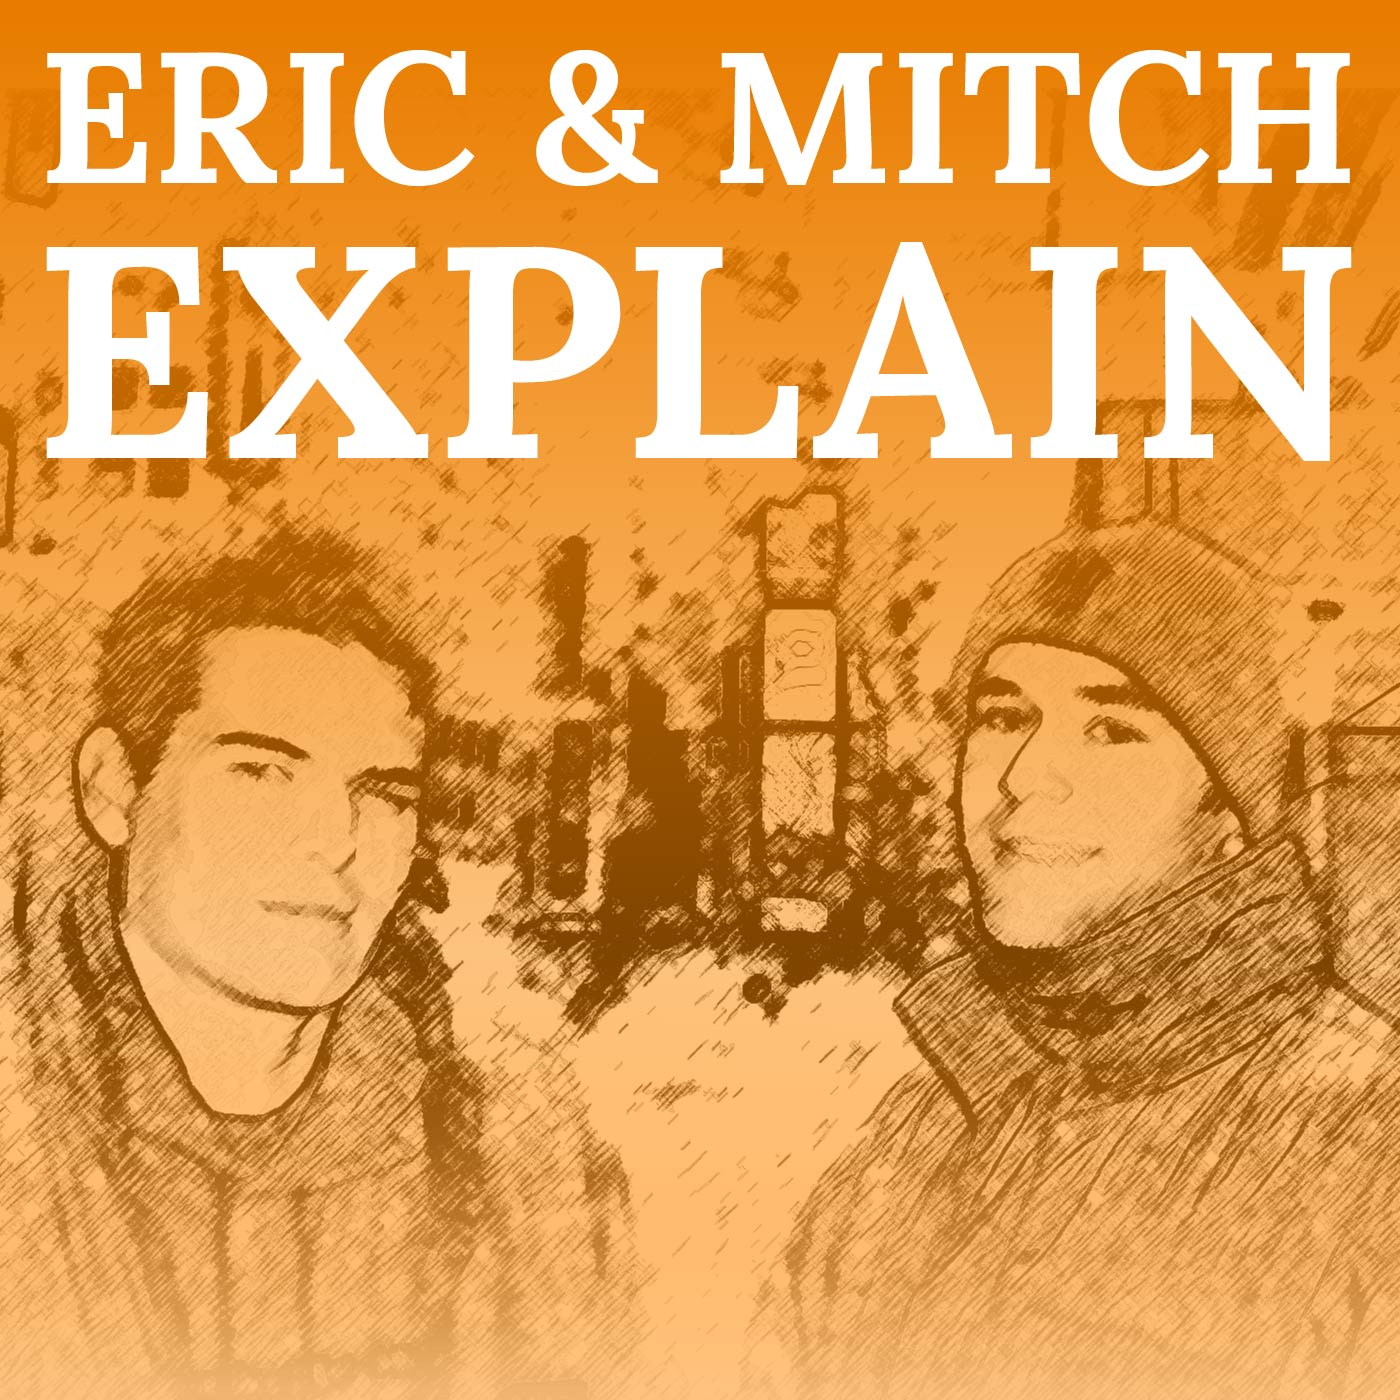
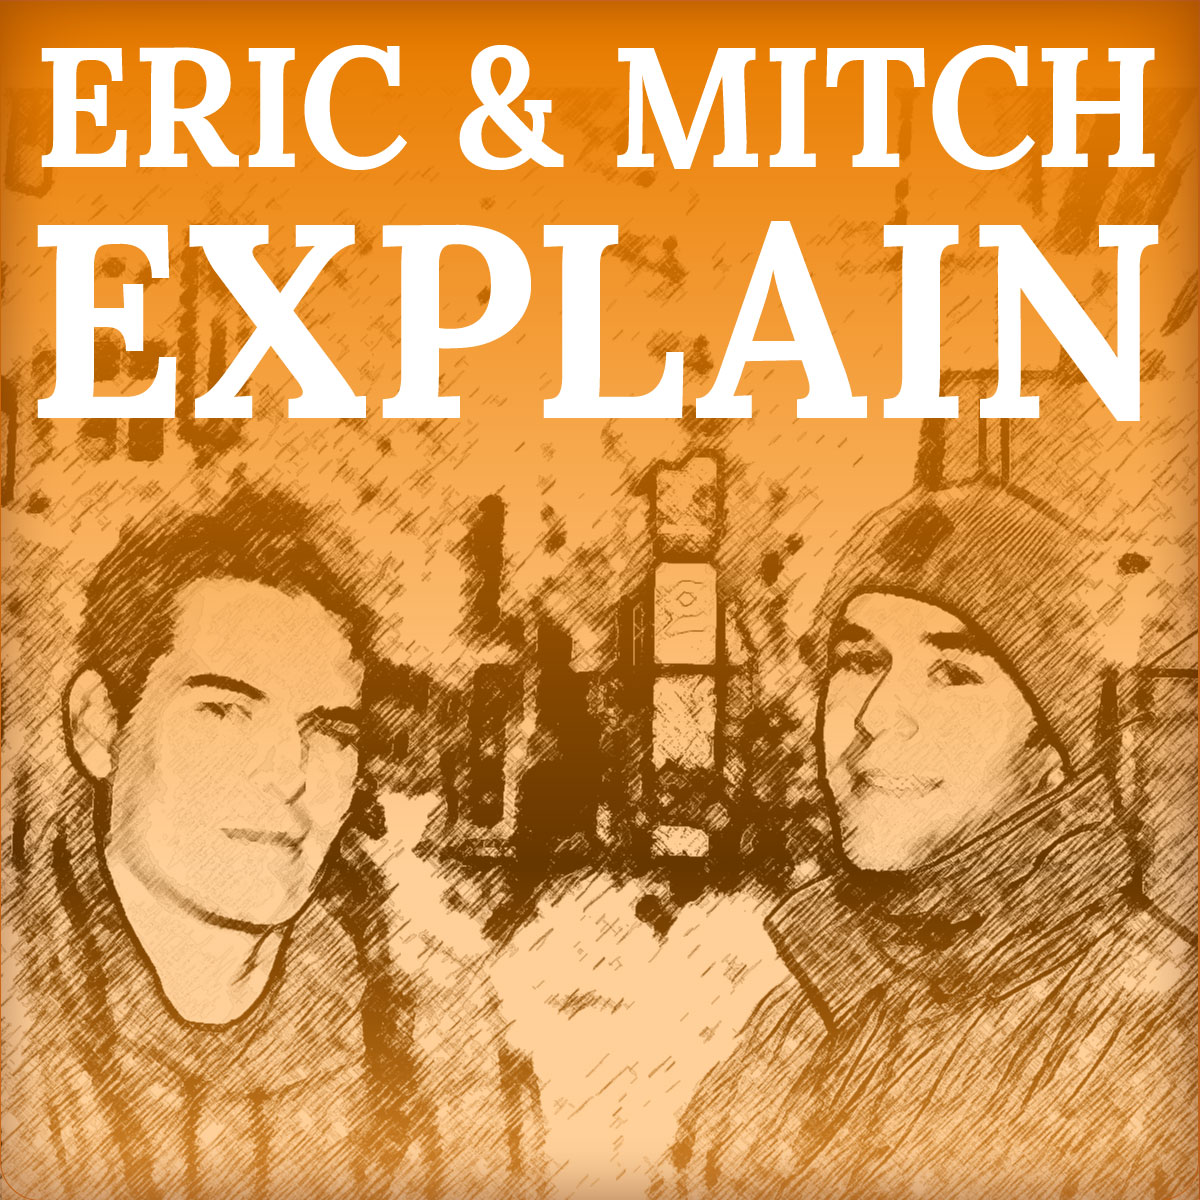
Published gh-pages to GitHub pages.

diff --git a/index.html b/index.html
@@ -1,1 +1,1 @@
-<!DOCTYPE html><html><head><title>Eric and Mitch Explain</title><link href="http://fonts.googleapis.com/css?family=Lora:400,700" rel="stylesheet" type="text/css" /><link href="stylesheets/site.css" media="screen, projection" rel="stylesheet" /><link href="javascripts/vendor/jplayer/blue.monday/jplayer.blue.monday.css" rel="stylesheet" type="text/css" /><link href="http://feeds.feedburner.com/ericandmitchexplain" rel="alternate" title="RSS" type="application/rss+xml" /><script src="https://ajax.googleapis.com/ajax/libs/jquery/1.7.2/jquery.min.js" type="text/javascript"></script><script src="javascripts/vendor/jplayer/jquery.jplayer.min.js" type="text/javascript"></script><script src="javascripts/application.js" type="text/javascript"></script></head><body><section id="header"><table><tr><td class="line-spacer"><hr /></td><td class="title"><h1>ERIC & MITCH EXPLAIN</h1></td><td class="line-spacer"><hr /></td></tr></table><div class="subtitle">The world is full of unexplained wonders. But not for long.<br />Join Eric and Mitch on a eye-opening journey into the depths of whatever.</div><div class="subscribe"><a class="itunes" href="http://itunes.apple.com/us/podcast/eric-and-mitch-explain/id533649535">Subcribe on iTunes</a><a class="rss" href="http://feeds.feedburner.com/ericandmitchexplain">Subscribe with RSS</a></div></section><section id="posts"><div class="latest-episode" style="background-image: url(images/001.jpeg)"><div class="content"><div class="title">Episode #1 - Business Travel</div><div class="description"><p>In this inaugural episode of Eric and Mitch Explain, you&#8217;ll get a heavy dose of travel tips for the fledging road-warrior. Be prepared to assemble several identical dop-kits and take a nostalgic look at radiation throughout the years.</p></div><div class="play" data-file="http:&#47;&#47;dl.dropbox.com&#47;u&#47;26290862&#47;Podcast&#47;Eric%20%26%20Mitch%20Explain%20001%20-%20Business%20Travel.mp3" id="jpId">Play</div><div class="jp-jplayer" id="jquery_jplayer_1"></div><div class="jp-audio" id="jp_container_1"><div class="jp-type-single"><div class="jp-gui jp-interface"><ul class="jp-controls"><li><a class="jp-play" href="javascript:;" tabindex="1">play</a></li><li><a class="jp-pause" href="javascript:;" tabindex="1">pause</a></li></ul><div class="jp-progress"><div class="jp-seek-bar"><div class="jp-play-bar"></div></div></div><div class="jp-time-holder"><div class="jp-current-time"></div><div class="jp-duration"></div></div></div><div class="jp-no-solution"><span>Update Required</span>To play the media you will need to either update your browser to a recent version or update your <a href="http://get.adobe.com/flashplayer/" target="_blank">Flash plugin</a>.</div></div></div><a class="download" href="http:&#47;&#47;dl.dropbox.com&#47;u&#47;26290862&#47;Podcast&#47;Eric%20%26%20Mitch%20Explain%20001%20-%20Business%20Travel.mp3">Download this episode</a><div class="released">Released on 5&#47;19&#47;2012</div></div></div></section></body></html>
+<!DOCTYPE html><html><head><title>Eric and Mitch Explain</title><link href="http://fonts.googleapis.com/css?family=Lora:400,700" rel="stylesheet" type="text/css" /><link href="stylesheets/site.css" media="screen, projection" rel="stylesheet" /><link href="javascripts/vendor/jplayer/blue.monday/jplayer.blue.monday.css" rel="stylesheet" type="text/css" /><link href="http://feeds.feedburner.com/ericandmitchexplain" rel="alternate" title="RSS" type="application/rss+xml" /><script src="https://ajax.googleapis.com/ajax/libs/jquery/1.7.2/jquery.min.js" type="text/javascript"></script><script src="javascripts/vendor/jplayer/jquery.jplayer.min.js" type="text/javascript"></script><script src="javascripts/application.js" type="text/javascript"></script></head><body><section id="header"><table><tr><td class="line-spacer"><hr /></td><td class="title"><h1>ERIC & MITCH EXPLAIN</h1></td><td class="line-spacer"><hr /></td></tr></table><div class="subtitle">The world is full of unexplained wonders. But not for long.<br />Join Eric and Mitch on a eye-opening journey into the depths of whatever.</div><div class="subscribe"><a class="itunes" href="http://itunes.apple.com/us/podcast/eric-and-mitch-explain/id533649535">Subcribe on iTunes</a><a class="rss" href="http://feeds.feedburner.com/ericandmitchexplain">Subscribe with RSS</a></div></section><section id="posts"><div class="latest episode" style="background-image: url(images/002.png)"><div class="content"><div class="title">Episode #2: Techno Utopianism</div><div class="description"><p>Put on your 3D glasses for this one. Transhumanism? Techno Utopianism? Technology-not-living-up-to-its-hype-ism? Eric throws down on those who would gush over our imminent technological transcendence. Meanwhile, Mitch can&#8217;t seem to get over the technology gap between big business and consumers.</p></div><div class="play" data-file="http:&#47;&#47;dl.dropbox.com&#47;u&#47;26290862&#47;Podcast&#47;eric%26mitch-002.mp3" id="jpId"></div><div class="jp-jplayer" id="jquery_jplayer_1"></div><div class="jp-audio" id="jp_container_1"><div class="jp-type-single"><div class="jp-gui jp-interface"><ul class="jp-controls"><li><a class="jp-play" href="javascript:;" tabindex="1">play</a></li><li><a class="jp-pause" href="javascript:;" tabindex="1">pause</a></li></ul><div class="jp-progress"><div class="jp-seek-bar"><div class="jp-play-bar"></div></div></div><div class="jp-time-holder"><div class="jp-current-time"></div><div class="jp-duration"></div></div></div><div class="jp-no-solution"><span>Update Required</span>To play the media you will need to either update your browser to a recent version or update your <a href="http://get.adobe.com/flashplayer/" target="_blank">Flash plugin</a>.</div></div></div><a class="download" href="http:&#47;&#47;dl.dropbox.com&#47;u&#47;26290862&#47;Podcast&#47;eric%26mitch-002.mp3">Download this episode</a><div class="released">Released on 6&#47;18&#47;2012</div></div></div><div class="episode" style="background-image: url(images/001.jpeg)"><div class="content"><div class="title">Episode #1: Business Travel</div><div class="description"><p>In this inaugural episode of Eric and Mitch Explain, you&#8217;ll get a heavy dose of travel tips for the fledging road-warrior. Be prepared to assemble several identical dop-kits and take a nostalgic look at radiation throughout the years.</p></div><div class="play" data-file="http:&#47;&#47;dl.dropbox.com&#47;u&#47;26290862&#47;Podcast&#47;Eric%20%26%20Mitch%20Explain%20001%20-%20Business%20Travel.mp3" id="jpId"></div><div class="jp-jplayer" id="jquery_jplayer_1"></div><div class="jp-audio" id="jp_container_1"><div class="jp-type-single"><div class="jp-gui jp-interface"><ul class="jp-controls"><li><a class="jp-play" href="javascript:;" tabindex="1">play</a></li><li><a class="jp-pause" href="javascript:;" tabindex="1">pause</a></li></ul><div class="jp-progress"><div class="jp-seek-bar"><div class="jp-play-bar"></div></div></div><div class="jp-time-holder"><div class="jp-current-time"></div><div class="jp-duration"></div></div></div><div class="jp-no-solution"><span>Update Required</span>To play the media you will need to either update your browser to a recent version or update your <a href="http://get.adobe.com/flashplayer/" target="_blank">Flash plugin</a>.</div></div></div><a class="download" href="http:&#47;&#47;dl.dropbox.com&#47;u&#47;26290862&#47;Podcast&#47;Eric%20%26%20Mitch%20Explain%20001%20-%20Business%20Travel.mp3">Download this episode</a><div class="released">Released on 5&#47;19&#47;2012</div></div></div></section></body></html>

diff --git a/stylesheets/site.css b/stylesheets/site.css
@@ -80,68 +80,87 @@ section#header a.itunes {
   margin-right: 1.5em; }
 
 /* line 60, site.css.sass */
-.latest-episode {
+.episode {
+  position: relative;
   display: inline;
   float: left;
   width: 940px;
   margin: 0 10px;
   margin-top: 2em;
-  background-color: #ffad08;
   overflow: hidden;
-  color: white;
+  color: #b87b00;
   border-radius: 3px;
   box-sizing: border-box;
   background-repeat: no-repeat; }
-  /* line 70, site.css.sass */
-  .latest-episode .title {
+  /* line 71, site.css.sass */
+  .episode .title {
     display: block;
     font-size: 24px;
     margin-bottom: 0.5em; }
-  /* line 75, site.css.sass */
-  .latest-episode .content {
+  /* line 76, site.css.sass */
+  .episode .content {
     padding: 20px;
+    background-color: #fff1d4;
     display: inline;
     float: left;
     width: 580px;
     margin: 0 10px;
+    margin-left: 320px; }
+    /* line 81, site.css.sass */
+    .episode .content p {
+      margin-top: 0px; }
+  /* line 84, site.css.sass */
+  .episode .released {
+    color: #ffbc33; }
+  /* line 87, site.css.sass */
+  .episode a {
+    color: white; }
+  /* line 90, site.css.sass */
+  .episode a.download {
+    @column(3);
+    display: inline-block;
+    color: #b87b00;
+    border-bottom: 1px dotted #b87b00;
+    margin-bottom: 1em;
+    margin-top: 0.5em; }
+    /* line 97, site.css.sass */
+    .episode a.download:hover {
+      border-bottom: 1px dotted #483000;
+      color: #483000; }
+
+/* line 101, site.css.sass */
+.latest {
+  background-color: #ffad08;
+  color: white; }
+  /* line 104, site.css.sass */
+  .latest .content {
     background: -webkit-gradient(linear, 50% 0%, 50% 100%, color-stop(0%, #ffbe3b), color-stop(100%, #ffad08));
     background: -webkit-linear-gradient(top, #ffbe3b, #ffad08);
     background: -moz-linear-gradient(top, #ffbe3b, #ffad08);
     background: -o-linear-gradient(top, #ffbe3b, #ffad08);
     background: -ms-linear-gradient(top, #ffbe3b, #ffad08);
-    background: linear-gradient(top, #ffbe3b, #ffad08);
-    margin-left: 320px; }
-    /* line 80, site.css.sass */
-    .latest-episode .content p {
-      margin-top: 0px; }
-  /* line 83, site.css.sass */
-  .latest-episode .released {
+    background: linear-gradient(top, #ffbe3b, #ffad08); }
+  /* line 106, site.css.sass */
+  .latest .released {
     color: #ffe0a1; }
-  /* line 86, site.css.sass */
-  .latest-episode a {
+  /* line 109, site.css.sass */
+  .latest a.download {
+    border-bottom: 1px dotted white;
     color: white; }
+    /* line 112, site.css.sass */
+    .latest a.download:hover {
+      border-bottom: 1px dotted #976500;
+      color: #976500; }
 
-/* line 89, site.css.sass */
+/* line 116, site.css.sass */
 div.jp-audio {
   float: left;
   clear: left;
   width: 290px !important;
   margin-right: 20px; }
-  /* line 95, site.css.sass */
+  /* line 122, site.css.sass */
   div.jp-audio .jp-progress, div.jp-audio .jp-time-holder {
     left: 80px !important; }
-  /* line 98, site.css.sass */
+  /* line 125, site.css.sass */
   div.jp-audio .jp-controls {
     width: 250px !important; }
-
-/* line 101, site.css.sass */
-a.download {
-@column(3);
-  display: inline-block;
-  border-bottom: 1px dotted white;
-  margin-bottom: 1em;
-  margin-top: 0.5em; }
-  /* line 107, site.css.sass */
-  a.download:hover {
-    border-bottom: 1px dotted #976500;
-    color: #976500; }

diff --git a/episodes/002-techno-utopianism.html b/episodes/002-techno-utopianism.html
@@ -1,0 +1,1 @@
+<!DOCTYPE html><html><head><title>Eric and Mitch Explain</title><link href="http://fonts.googleapis.com/css?family=Lora:400,700" rel="stylesheet" type="text/css" /><link href="stylesheets/site.css" media="screen, projection" rel="stylesheet" /><link href="javascripts/vendor/jplayer/blue.monday/jplayer.blue.monday.css" rel="stylesheet" type="text/css" /><link href="http://feeds.feedburner.com/ericandmitchexplain" rel="alternate" title="RSS" type="application/rss+xml" /><script src="https://ajax.googleapis.com/ajax/libs/jquery/1.7.2/jquery.min.js" type="text/javascript"></script><script src="javascripts/vendor/jplayer/jquery.jplayer.min.js" type="text/javascript"></script><script src="javascripts/application.js" type="text/javascript"></script></head><body><section id="header"><table><tr><td class="line-spacer"><hr /></td><td class="title"><h1>ERIC & MITCH EXPLAIN</h1></td><td class="line-spacer"><hr /></td></tr></table><div class="subtitle">The world is full of unexplained wonders. But not for long.<br />Join Eric and Mitch on a eye-opening journey into the depths of whatever.</div><div class="subscribe"><a class="itunes" href="http://itunes.apple.com/us/podcast/eric-and-mitch-explain/id533649535">Subcribe on iTunes</a><a class="rss" href="http://feeds.feedburner.com/ericandmitchexplain">Subscribe with RSS</a></div></section><section id="posts"><p>Put on your 3D glasses for this one. Transhumanism? Techno Utopianism? Technology-not-living-up-to-its-hype-ism? Eric throws down on those who would gush over our imminent technological transcendence. Meanwhile, Mitch can&#8217;t seem to get over the technology gap between big business and consumers.</p></section></body></html>
